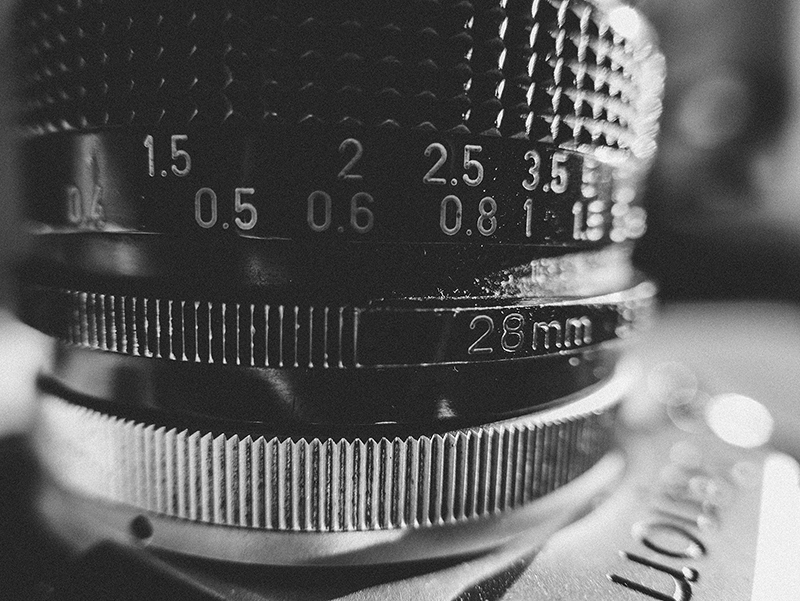
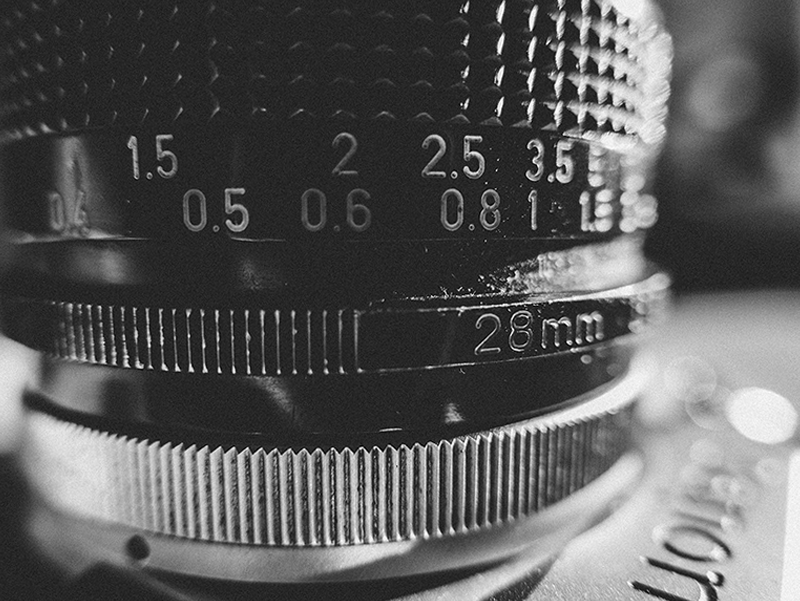
modified lens img and corrected join the tribe section

diff --git a/index.html b/index.html
@@ -18,7 +18,7 @@
   		<div class="container py-2">
 		   	<h1 class="main-title pl-1 pr-1">It's All About The UX</h1>
 		    <p class="sub-title mt-3">The devil is in the detail. That's the reason why I prefer to keep it simple.</p>
-		</div>		
+		</div>
 
 
 		<div class="container py-2">
@@ -66,7 +66,7 @@
 
 			<!-- Motivation -->
 			<h1 class="my-3">Why I want to join the tribe?</h1>
-			<p>Last year I was chatting with a friend, who currently live in Singapore, and she brought out of nowhere this new term <em>Growth Hacking</em>. Since that exact moment I started goolgling it and searching for more till I found this cool website called <em>Growth Tribe</em>. I'll be honest, I've hesitated a little bit before to apply for the 3-month academy but then I though <em>"I'm 26, I have a job in a big company but I know I can do more for me and my community"</em> so I quit my main job and kept working on the startup I'm running with some duedes. While developing the marketing strategy for users acuisition that term (Growth Hacking) came to my mind and I knew I should've be part of the tribe to help growth our company (and many others why not?).</p>
+			<p>Last year I was chatting with a friend, who currently live in Singapore, and she brought out of nowhere this new term <em>Growth Hacking</em>. Since that exact moment I started goolgling it and searching for more till I found this cool website called <em>Growth Tribe</em>. I'll be honest, I've hesitated a little bit before to apply for the 3-month academy but then I though <em>"I'm 26, I have a job in a big company but I know I can do more for me and my community"</em> so I quit my main job and kept working on the startup I'm running with some dudes. While developing the marketing strategy for users acuisition that term (Growth Hacking) came to my mind and I knew I should've be part of the tribe to help growth our company (and many others why not?).</p>
 
 			<!-- Why me -->
 			<div class="row">
